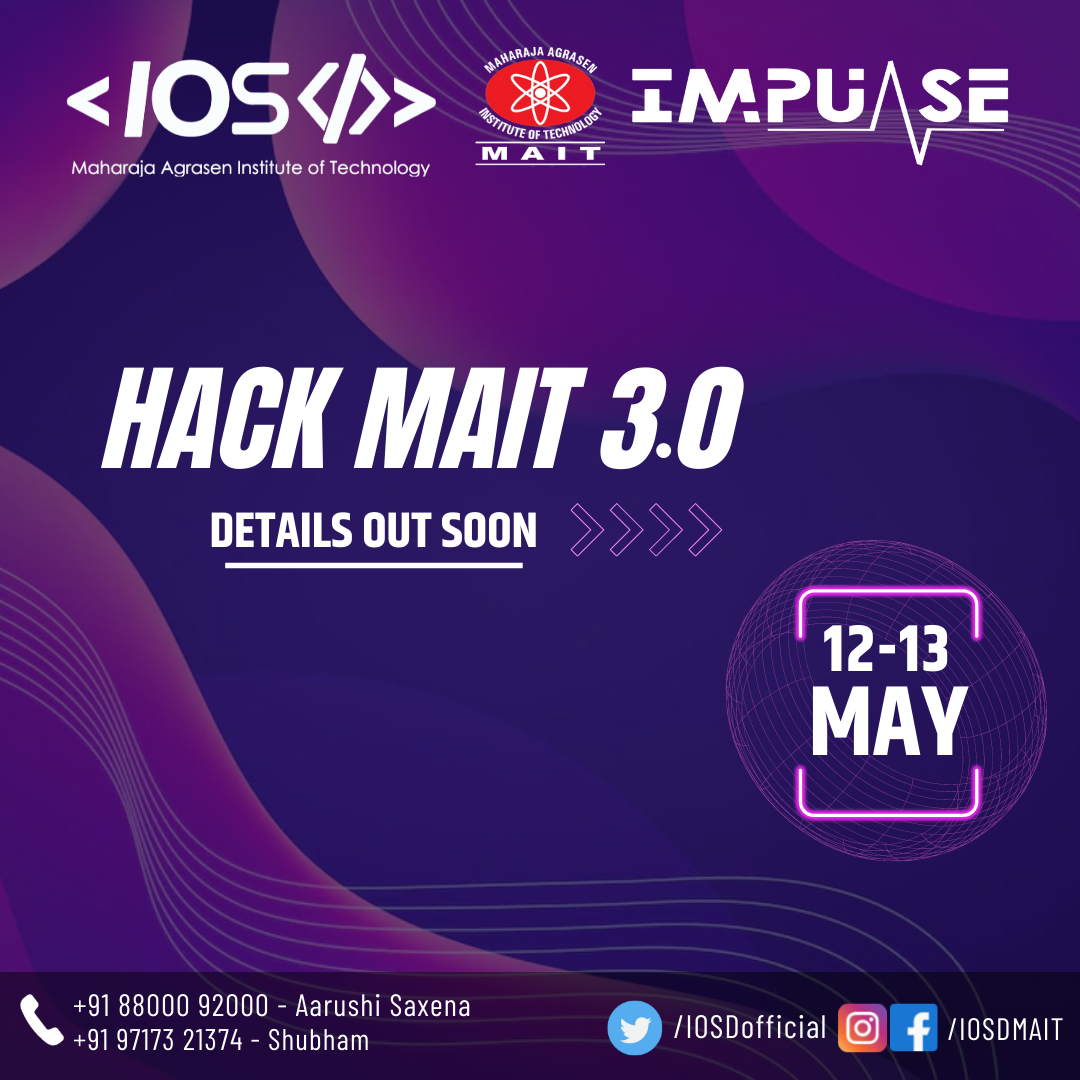
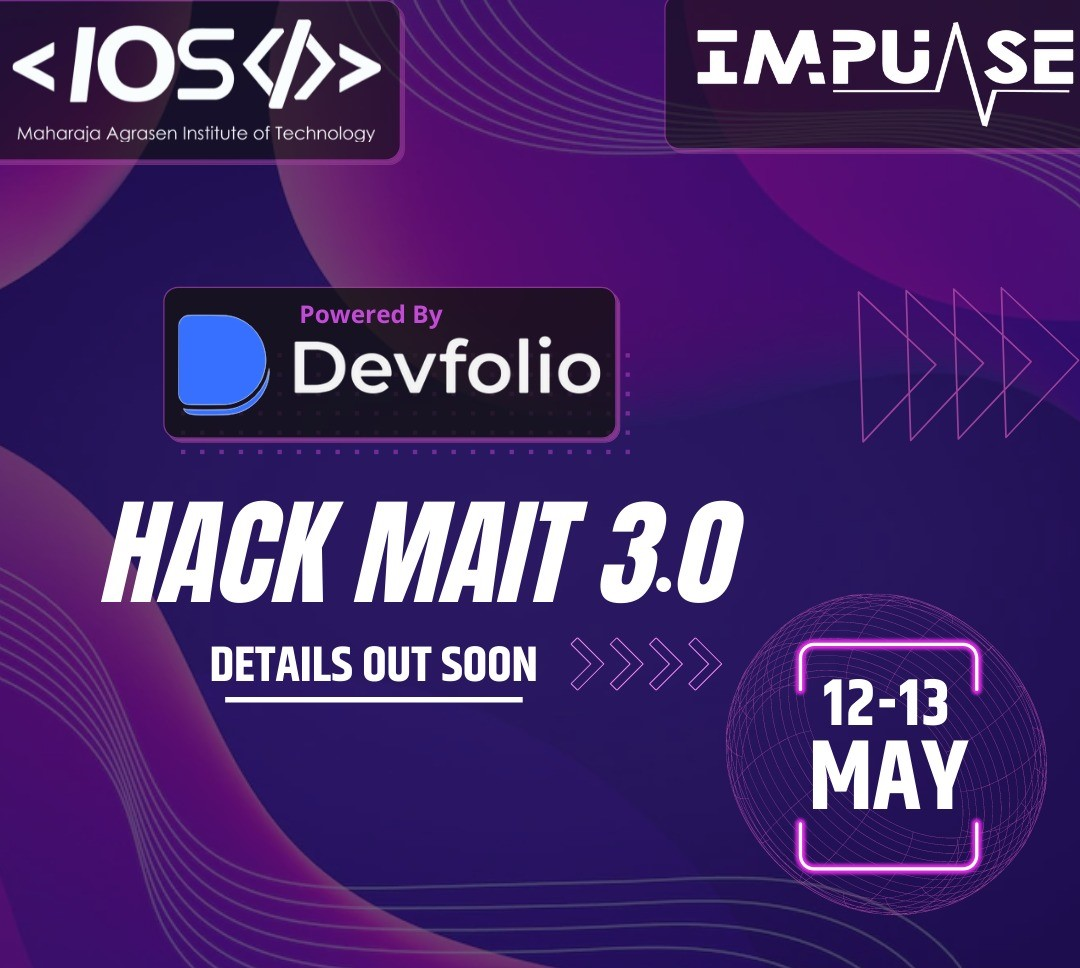
devfolio poster

diff --git a/index.html b/index.html
@@ -252,7 +252,7 @@
                         <div class="col-lg-4">
                             <a href="hackmait/index.html">
                                 <div class="single-portfolio">
-                                    <img src="assets\img\hackmait.png" alt="event-img" class="portfolio-img">
+                                    <img src="assets/images/posters/hack.png" alt="event-img" class="portfolio-img">
                                     <div class="portfolio-text">
                                         <h3>HackMait 3.0</h3>
                                     </div>
@@ -327,7 +327,7 @@
                     <div class="event-card col-lg-4 col-md-6">
                         <a href="hackmait/index.html">
                             <div class="card">
-                                <img class="card-img-top" src="assets/img/hackmait.png" alt="Card image cap">
+                                <img class="card-img-top" src="assets/images/posters/hack.png" alt="Card image cap">
                                 <div class="card-body">
                                     <h3 class="event-name">HackMait 3.0</h3>
                                 </div>

diff --git a/hackmait/index.html b/hackmait/index.html
@@ -474,7 +474,7 @@
     </div>
   </footer>
 </body>
-
+<script defer async src="https://apply.devfolio.co/v2/sdk.js"></script>
 <script src="../js/countdown.js"></script>
 <script src="../js/canvas.js"></script>
 <script src="../js/navbar.js"></script>
